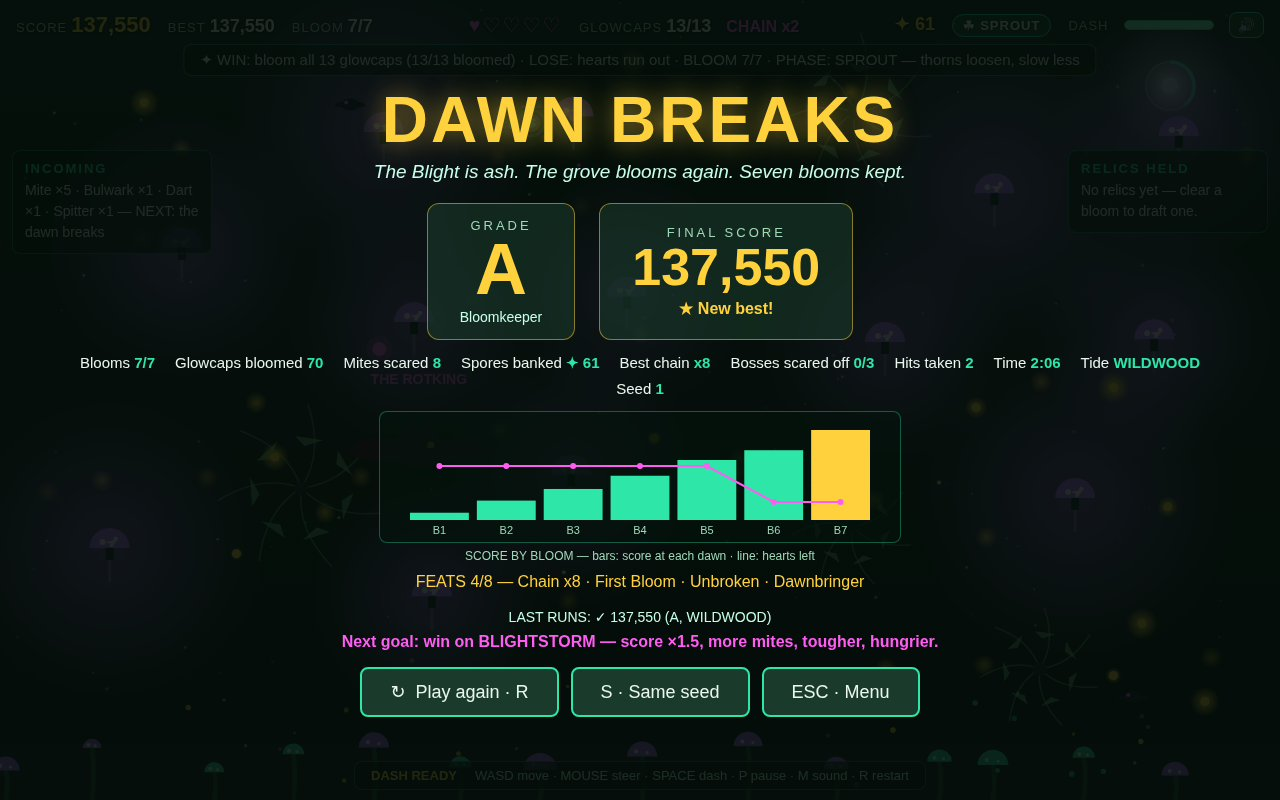
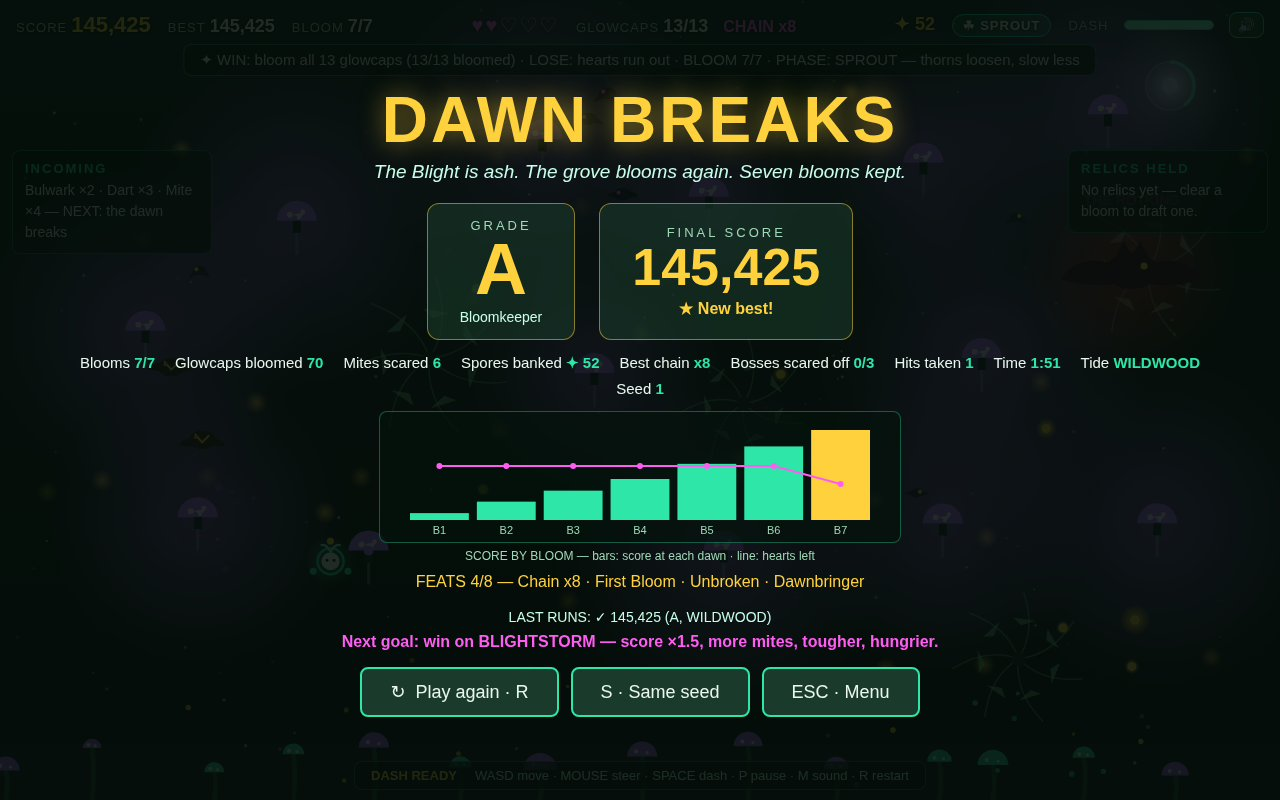
Audit fixes: Bulwark needs 2 separate dashes; hurt bosses swoop faster
- Bulwark: one dash spent both hits (no per-mite hit cooldown). Add
  hitCd 0.35s so a second dash is required for the second hit, as the
  roster promises.
- Bosses: the boss bar claimed PHASE 2 'swoops more' / ENRAGED 'swoops
  faster' but swoop cadence/speed never changed with hits. Implement
  the escalation (3.2s interval when hurt, 2.5s + 240px/s at 1 hit)
  so the label is true.
- Verified live: audit-probe 15/15, full probe 25/25, victory shot
  re-taken (real win, grade A, 145,425, Dawnbringer), dossier
  byte-identical across two main.ts runs.

diff --git a/game/src/entities.js b/game/src/entities.js
@@ -45,6 +45,9 @@ export function spawnMites(rng, bloom, phase, tide) {
       flap: rng.range(0, Math.PI * 2),
       radius: kind.id === 'bulwark' ? 24 : kind.id === 'dart' ? 12 : MITES.radius,
       hits: kind.id === 'bulwark' ? 2 : 1, // Bulwark takes 2 dash-hits
+      hitCd: 0, // seconds until the next dash-hit can land: one dash spends
+      // one hit, however long the wisp overlaps the mite (a Bulwark needs
+      // 2 separate dashes, not one pass through it)
       spitTimer: kind.id === 'spitter' ? rng.range(1.5, 3) : 0,
       active: true,
     });
@@ -59,6 +62,7 @@ export function updateMites(mites, globs, dt, time, wisp, rng) {
   for (const mite of mites) {
     if (!mite.active) continue;
     mite.flap += dt * 14;
+    if (mite.hitCd > 0) mite.hitCd -= dt;
     if (mite.kind === 'dart') {
       // Darts fly straight and fast, then turn at the edge.
       mite.x += mite.dir * mite.speed * dt;
@@ -131,6 +135,11 @@ export function spawnBoss(rng, bloom) {
 export function updateBoss(boss, dt, time, wisp) {
   if (!boss.active) return;
   boss.flap += dt * 10;
+  // Escalation, matching the boss bar: a hurt boss swoops more often, and
+  // at its last hit faster (PHASE 2: every 3.2s; ENRAGED: every 2.5s at
+  // 240 px/s, from a base of 4.0s at 185 px/s).
+  const swoopInterval = boss.hits <= 1 ? 2.5 : boss.hits < boss.maxHits ? 3.2 : BOSS.swoopEvery;
+  const swoopSpeed = boss.hits <= 1 ? 240 : BOSS.swoopSpeed;
   if (boss.telegraph > 0) {
     boss.telegraph -= dt;
     if (boss.telegraph <= 0) {
@@ -138,8 +147,8 @@ export function updateBoss(boss, dt, time, wisp) {
       const dx = wisp.x - boss.x;
       const dy = wisp.y - boss.y;
       const d = Math.hypot(dx, dy) || 1;
-      boss.vx = (dx / d) * BOSS.swoopSpeed;
-      boss.vy = (dy / d) * BOSS.swoopSpeed;
+      boss.vx = (dx / d) * swoopSpeed;
+      boss.vy = (dy / d) * swoopSpeed;
       boss.swooping = 0.9;
     }
     return;
@@ -152,7 +161,7 @@ export function updateBoss(boss, dt, time, wisp) {
     boss.y = Math.max(60, Math.min(VIEW.height - 70, boss.y));
     if (boss.swooping <= 0) {
       boss.baseY = boss.y;
-      boss.swoopTimer = BOSS.swoopEvery;
+      boss.swoopTimer = swoopInterval;
     }
     return;
   }

diff --git a/game/src/config.js b/game/src/config.js
@@ -65,7 +65,9 @@ export const THORNS = {
 };
 
 // BOSSES — a giant blight-beast that hunts the wisp on blooms 3, 5 and 7:
-// dash-hits to scare it off, a telegraphed swoop every 4 seconds.
+// dash-hits to scare it off, a telegraphed swoop every 4 seconds — faster
+// and more often as it loses hits (PHASE 2: 3.2s; ENRAGED at 1 hit: 2.5s,
+// 240 px/s), matching the boss bar.
 export const BOSSES = {
   3: { name: 'THORNMAW', radius: 36, hits: 3, killPoints: 1000, color: '#7a2e6e', eye: '#ff5df2' },
   5: { name: 'BLIGHTMAW', radius: 40, hits: 3, killPoints: 1000, color: '#2e1040', eye: '#ff2e2e' },

diff --git a/game/src/world.js b/game/src/world.js
@@ -354,6 +354,9 @@ export function stepWorld(world, dt) {
       const d = Math.hypot(wisp.x - mite.x, wisp.y - mite.y);
       if (d < scareRadius) {
         if (wisp.dashTime > 0) {
+          if (mite.hitCd > 0) continue; // one dash spends one hit: a Bulwark
+          // needs a second dash, not a longer overlap of the first
+          mite.hitCd = 0.35;
           mite.hits -= 1;
           if (mite.hits <= 0) {
             mite.active = false;
